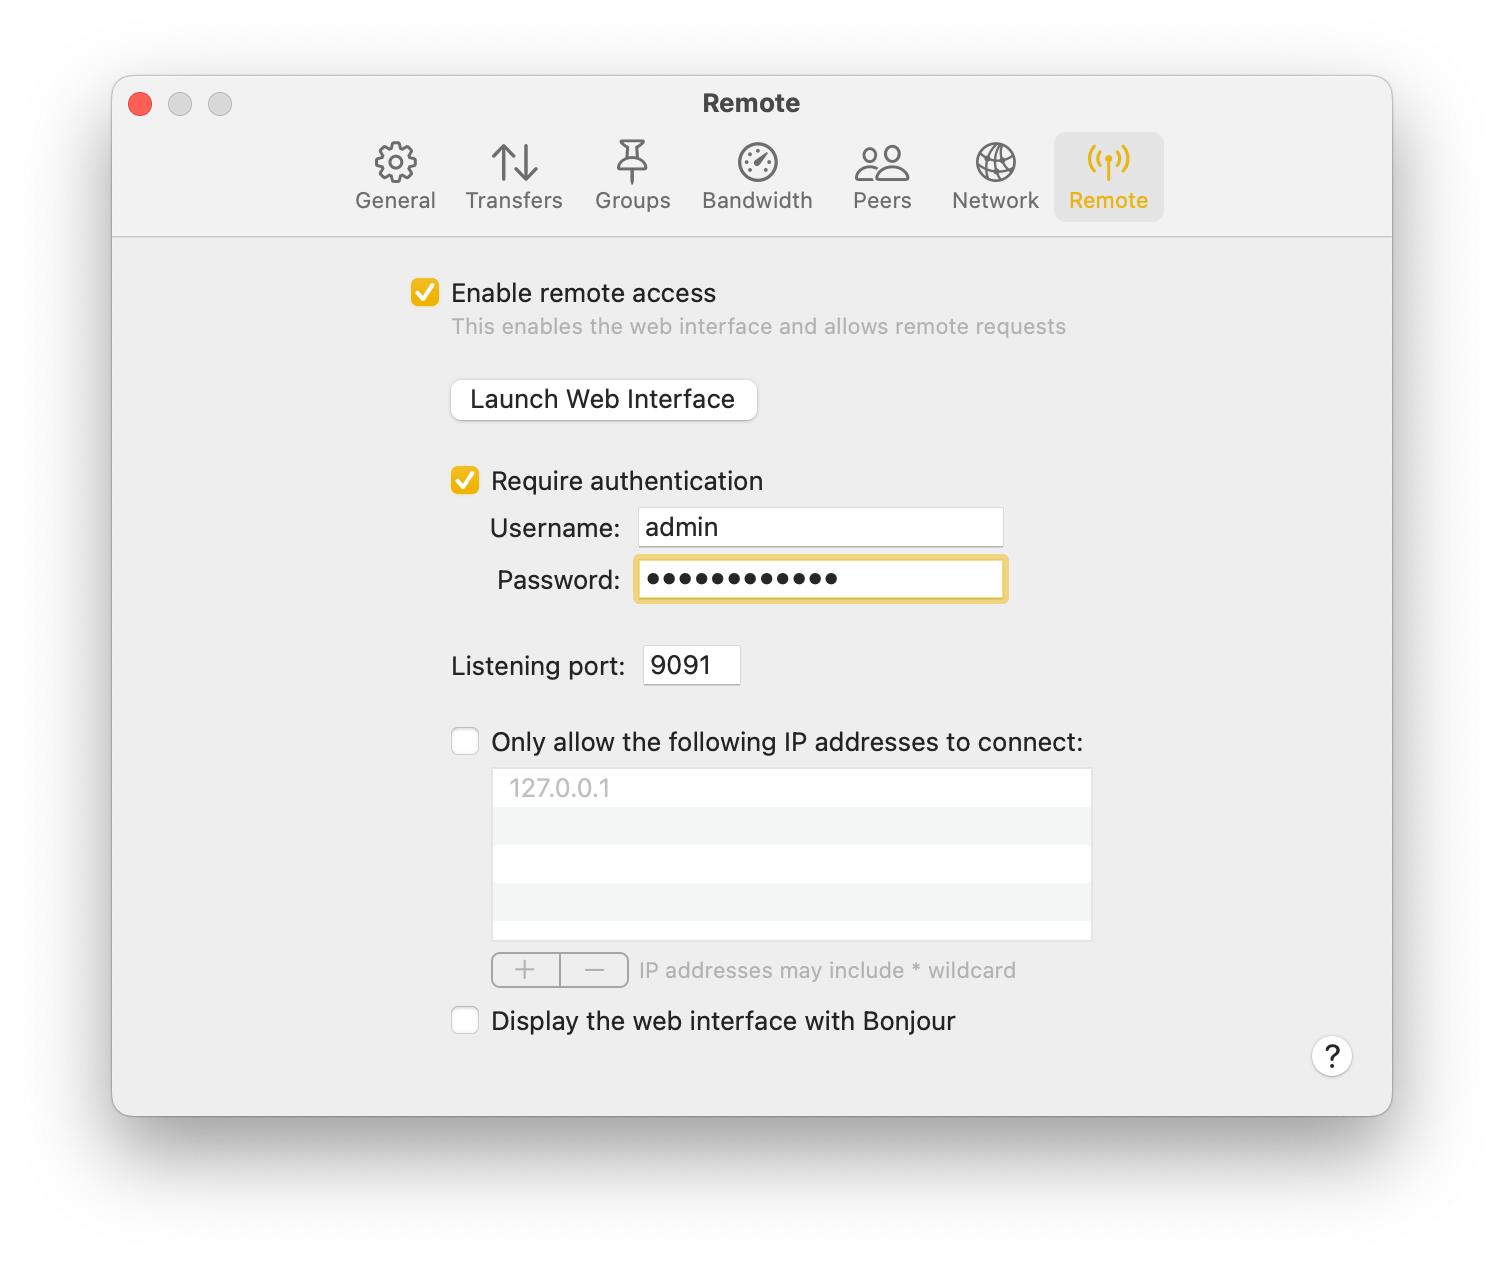
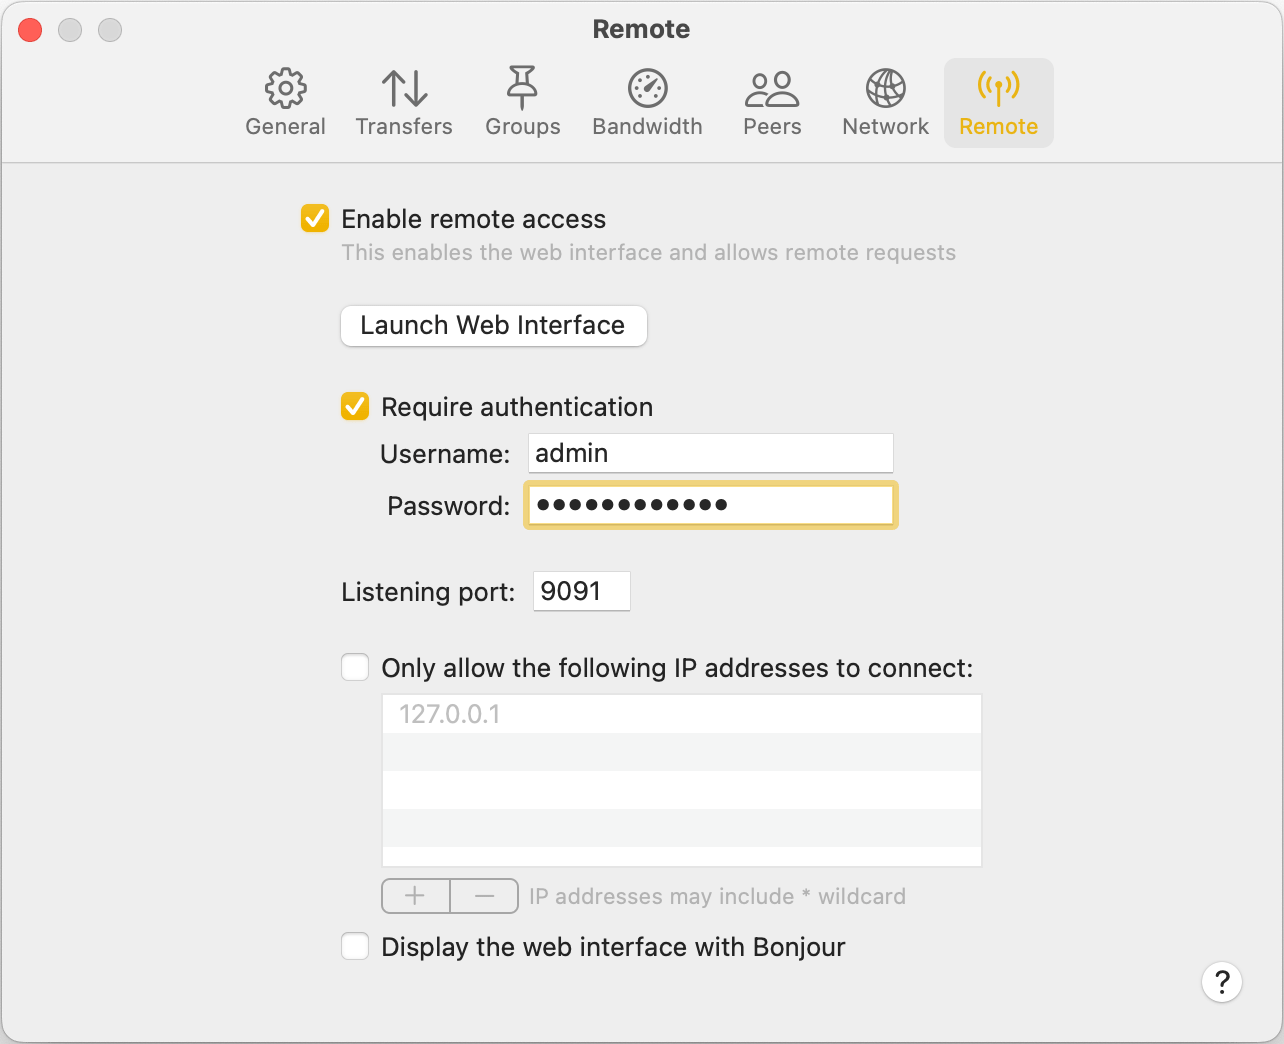
Docs: refresh web-interface page (#4277)
* Add link to macos web interface enabling manual

* Delete mac-enable-web-2.png

* Crop mac-enable-web-2.png pic

diff --git a/docs/Web-Interface.md b/docs/Web-Interface.md
@@ -50,7 +50,7 @@ Click on "Remote" tab.
 
 Once enabled, open a web browser and direct it to http://ip_address_of_machine_running_transmission:9091/
 If the web browser and the Transmission daemon are on the machine you can use http://127.0.0.1:9091/
-9091 is the default remote control port specified in [Transmission configuration](Editing-Configuration-Files.md) or in preferences of [Windows](https://github.com/transmission/transmission/blob/main/docs/Web-Interface.md#1-for-windows) or [Linux](https://github.com/transmission/transmission/blob/main/docs/Web-Interface.md#2-for-linux) client.
+9091 is the default remote control port specified in [Transmission configuration](Editing-Configuration-Files.md) or in preferences of [Windows](https://github.com/transmission/transmission/blob/main/docs/Web-Interface.md#1-for-windows), [Linux](https://github.com/transmission/transmission/blob/main/docs/Web-Interface.md#2-for-linux) or [macOS](https://github.com/transmission/transmission/blob/main/docs/Web-Interface.md#2-for-macos) client.
 
 ## Web Interface Overview
 
